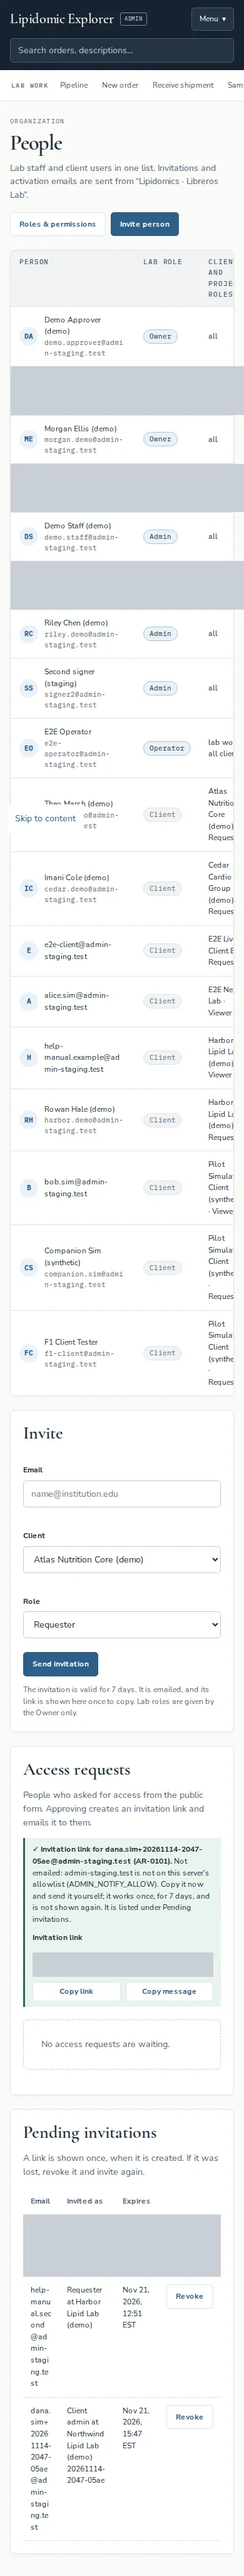
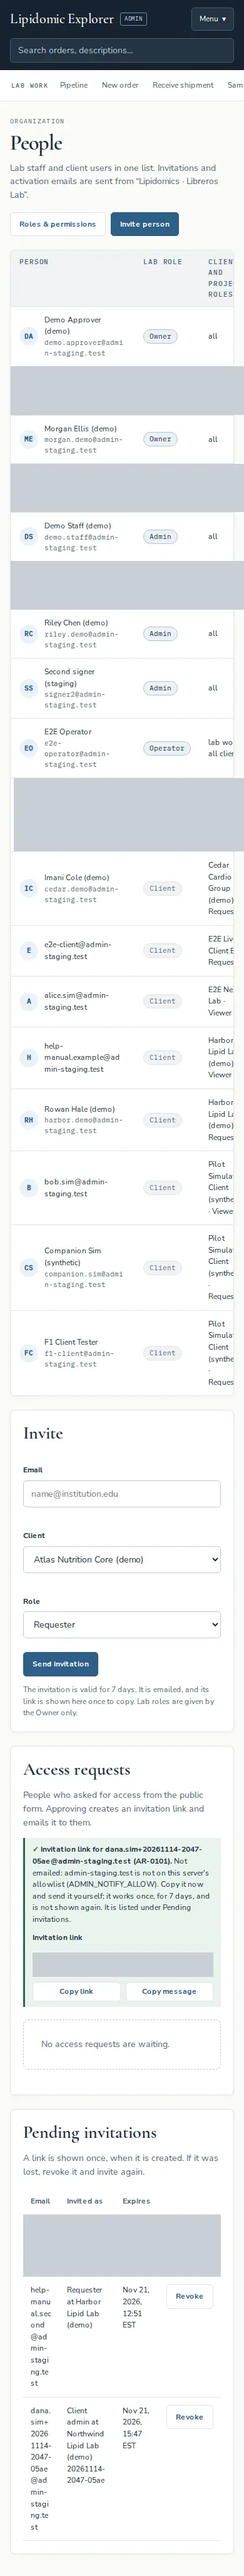
help: touch up the last screenshot review items
- request-sent (desktop, phone): remove the skip link's white strip at the top.
- access-request-listed and invitation-link-shown (phone): the "Skip to content"
  link sat over one row; that row is masked like the other masked rows.
- nexo-quality-check (phone): crop to the phone's own screen (844 px), so the
  sticky bar sits at the bottom instead of over the second check.
- build-screenshots.mjs: the comment names the 2026-11-14 demo run and codes.

Changed region(s): [[0.0308, 0.28, 1.0, 0.3422]]

diff --git a/frontends/help/help-data.js b/frontends/help/help-data.js
@@ -406,7 +406,7 @@ window.HELP_DATA = {
       ],
       "nexo-quality-check": [
         390,
-        1516
+        844
       ],
       "nexo-switch-on": [
         390,
